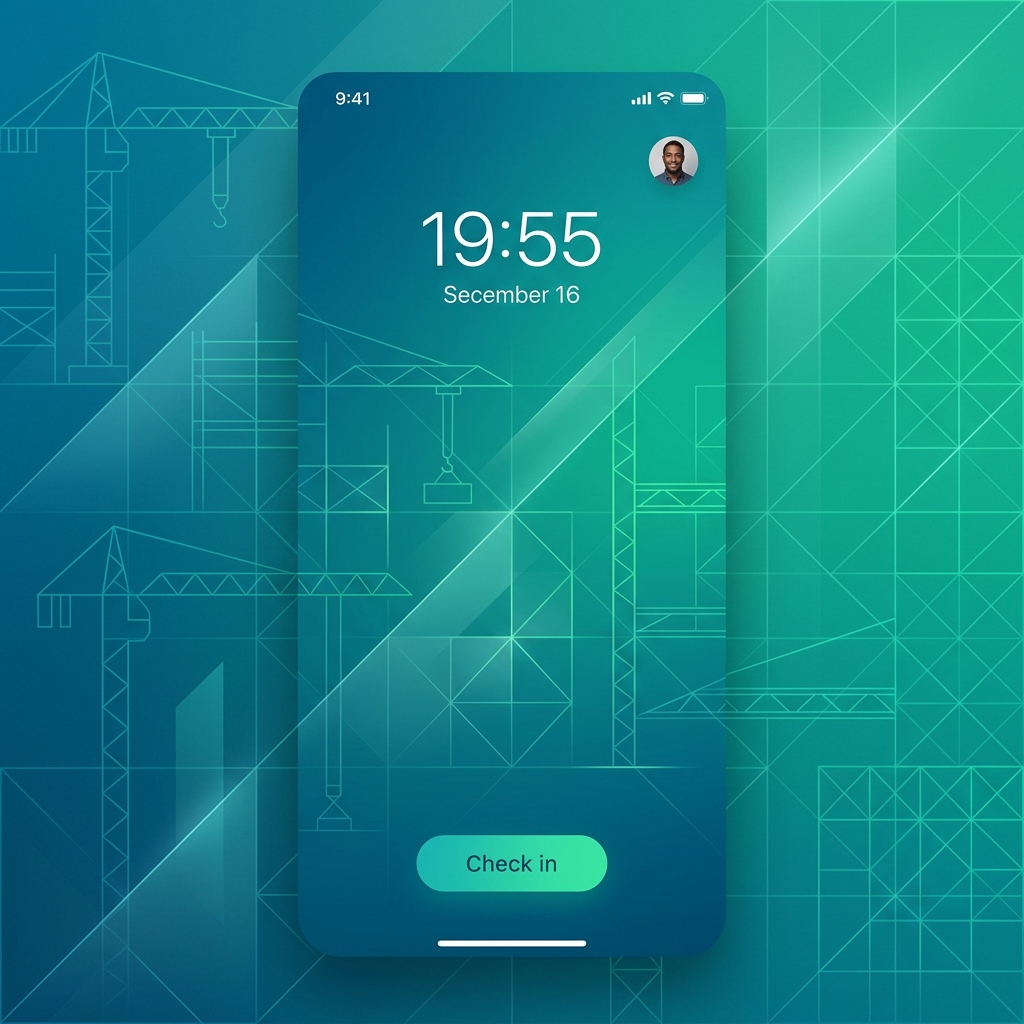
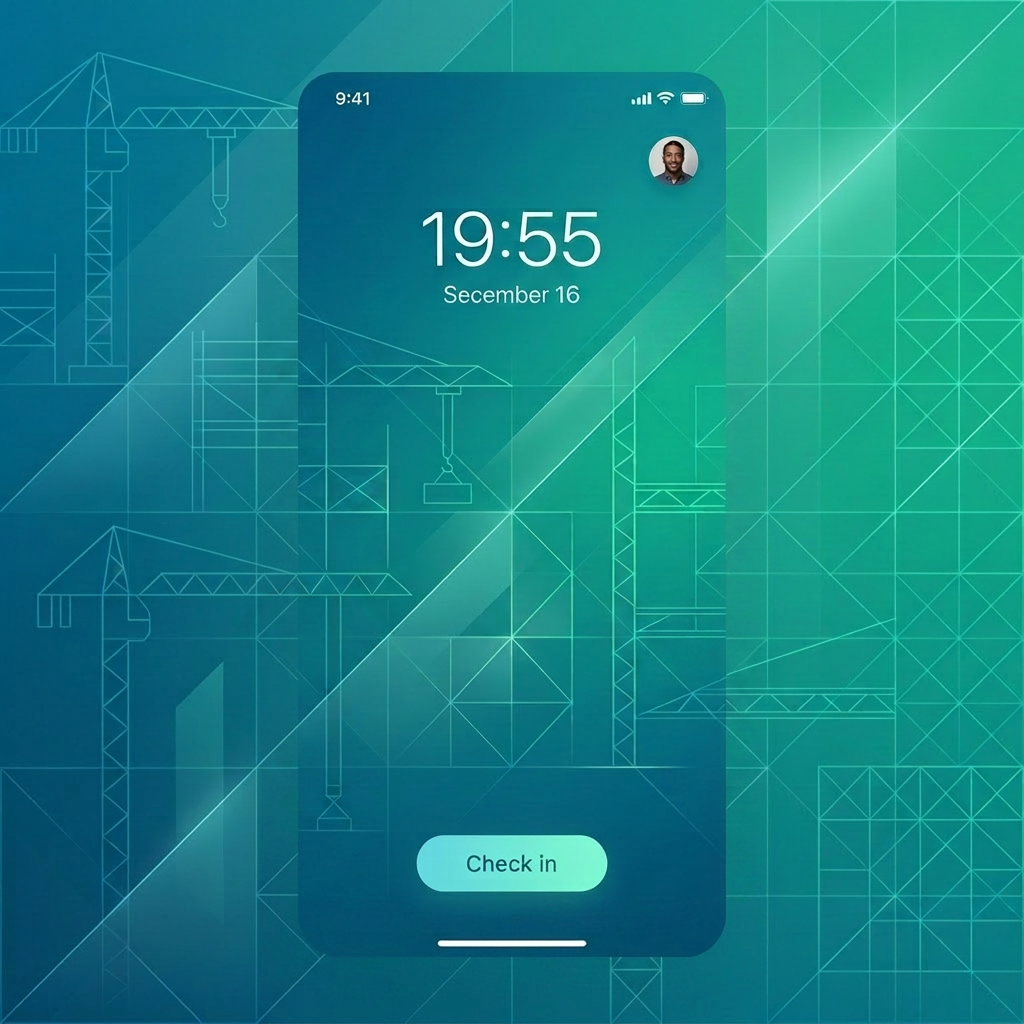
u[pdated

diff --git a/frontend/app/_layout.tsx b/frontend/app/_layout.tsx
@@ -1,10 +1,25 @@
 import { Stack } from 'expo-router';
 import { StatusBar } from 'expo-status-bar';
 import { SafeAreaProvider } from 'react-native-safe-area-context';
+import * as SplashScreen from 'expo-splash-screen';
+import { useEffect } from 'react';
 import { COLORS } from '../constants/Theme';
 import LogoutButton from '../components/LogoutButton';
 
+// Keep the splash screen visible while we fetch resources
+SplashScreen.preventAutoHideAsync().catch(() => {
+  /* reloading the app might cause some errors here, safe to ignore */
+});
+
 export default function RootLayout() {
+  useEffect(() => {
+    // Hide splash screen after 500ms to ensure everything is rendered
+    const timer = setTimeout(async () => {
+      await SplashScreen.hideAsync().catch(() => {});
+    }, 500);
+    return () => clearTimeout(timer);
+  }, []);
+
   return (
     <SafeAreaProvider>
       <StatusBar style="light" backgroundColor={COLORS.headerBackground} />

diff --git a/frontend/app/index.tsx b/frontend/app/index.tsx
@@ -42,6 +42,7 @@ export default function LoginScreen() {
     if (showWelcome) return;
     const checkUserSession = async () => {
       try {
+        console.log('LoginScreen: checking user session...');
         const storedRole = await AsyncStorage.getItem('userRole');
         const storedName = await AsyncStorage.getItem('userName');
         const storedUserId = await AsyncStorage.getItem('userId');
@@ -67,7 +68,7 @@ export default function LoginScreen() {
           }
         }
       } catch (error) {
-        console.error('Error reading user session:', error);
+        console.log('Error reading user session (non-fatal):', error);
       }
     };
     checkUserSession();